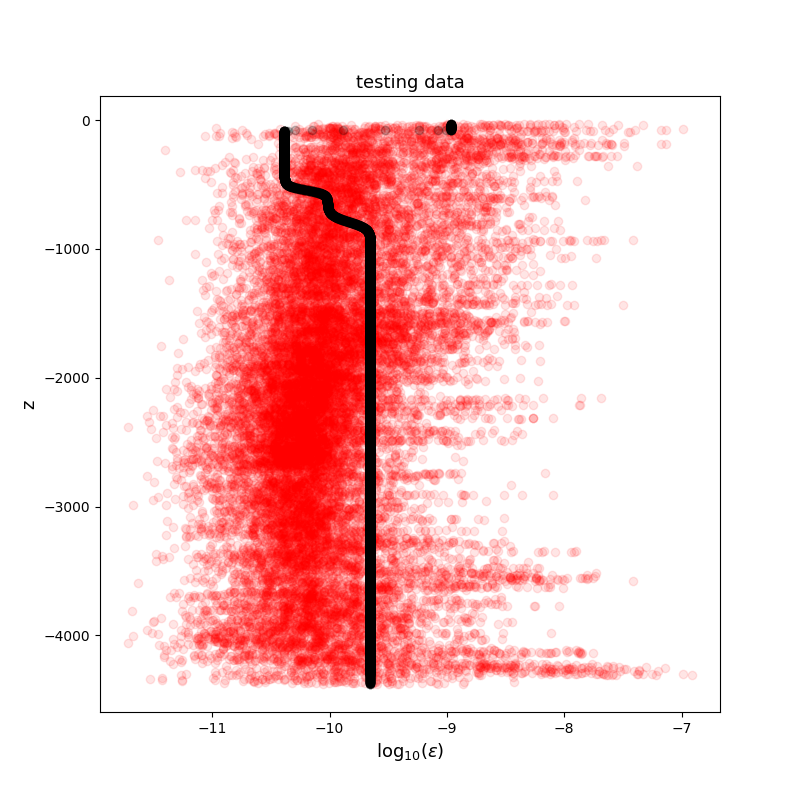
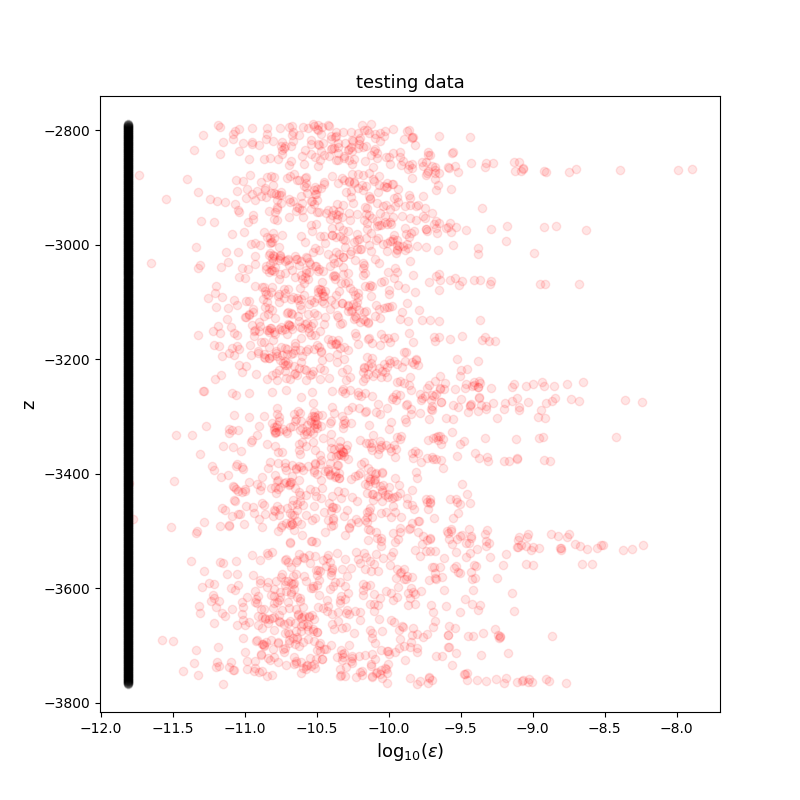
mdn working on training data

diff --git a/mdn_micro.py b/mdn_micro.py
@@ -34,23 +34,30 @@ Np = np.shape(eps)[0]
 #print(Np)
 
 # data needs to be shape (N,1):
-Nchunk = 20000
-Noffset = 200000
+Nchunk = 10000
+Noffset = 1000000
 x_data = np.zeros([Nchunk,1])
 x_data[:,0] = z[Noffset:Nchunk+Noffset]
 y_data = np.zeros([Nchunk,1])
 y_data[:,0] = np.log10(eps[Noffset:Nchunk+Noffset])
 
-Noffset = 1000000
+Nchunk = 2000
+Noffset = 1100000
 x_test = np.zeros([Nchunk,1])
 x_test[:,0] = z[int(2*Nchunk)+Noffset:int(3*Nchunk)+Noffset]
 y_test = np.zeros([Nchunk,1])
 y_test[:,0] = np.log10(eps[int(2*Nchunk)+Noffset:int(3*Nchunk)+Noffset])
 
+"""
+x_data2 = np.zeros([Nchunk,4])
+x_data2[:,0] = z[Noffset:Nchunk+Noffset]
+x_data2[:,1] = CT[Noffset:Nchunk+Noffset]
+x_data2[:,2] = SA[Noffset:Nchunk+Noffset]
+x_data2[:,4] = N2[Noffset:Nchunk+Noffset]
+"""
 
 #x_data = x_data/np.amin(x_data)-np.mean(x_data/np.amin(x_data))
 #y_data = y_data/np.amin(y_data)-np.mean(y_data/np.amin(y_data))
-
 #x_test = x_test/np.amin(x_test)-np.mean(x_test/np.amin(x_test))
 #y_test = y_test/np.amin(y_test)-np.mean(y_test/np.amin(y_test))
 
@@ -69,7 +76,7 @@ plt.title(r"training data",fontsize=13)
 plt.savefig(plotname,format="png"); plt.close(fig);
 plt.show()
 
-plotname = figure_path +'micro_testing_data.png' 
+plotname = figure_path +'micro_test_data.png' 
 fig = plt.figure(figsize=(8, 8))
 plt.plot(y_test,x_test,'ro',alpha=alpha_level)
 plt.ylabel(r"z",fontsize=13)
@@ -155,7 +162,7 @@ sess.close() # close the session afterwards to free resources
 
 
 # construct the MDN:
-NHIDDEN = 32
+NHIDDEN = 24
 STDEV = 0.5
 KMIX = 32 # number of mixtures
 NOUT = KMIX * 3 # pi, mu, stdev
@@ -181,33 +188,64 @@ train_op = tf.train.AdamOptimizer().minimize(lossfunc)
 sess = tf.InteractiveSession()
 sess.run(tf.global_variables_initializer())
 
-NEPOCH = 10000
+NEPOCH = 20000
 loss = np.zeros(NEPOCH) # store the training progress here.
 for i in range(NEPOCH):
   sess.run(train_op,feed_dict={x: x_data, y: y_data})
   loss[i] = sess.run(lossfunc, feed_dict={x: x_data, y: y_data})
 
-
 # testing:
-#x_test = np.float32(np.arange(-15,15,0.1))
-#NTEST = x_test.size
-#x_test = x_test.reshape(NTEST,1) # needs to be a matrix, not a vector
-
 out_pi_test, out_sigma_test, out_mu_test = sess.run(fn.get_mixture_coeff(output,KMIX), feed_dict={x: x_test})
-y_pred = fn.generate_ensemble( out_pi_test, out_mu_test, out_sigma_test, x_test )
+out_pi_train, out_sigma_train, out_mu_train = sess.run(fn.get_mixture_coeff(output,KMIX), feed_dict={x: x_data})
+# out_pi_test, out_sigma_test, out_mu_test = each are size (Nchunk,Kmix)
 
-sess.close()
+y_pred_test = fn.generate_ensemble( out_pi_test, out_mu_test, out_sigma_test, x_test )
+y_pred_train = fn.generate_ensemble( out_pi_train, out_mu_train, out_sigma_train, x_data )
+# y_pred = size(Nchunk,10?)
 
-plotname = figure_path +'micro_testing_prediction_mdn.png' 
+"""
+print(np.shape(y_test))
+print(np.shape(x_test))
+print(np.shape(y_pred))
+print(out_mu_test)
+print(out_pi_test)
+print(out_sigma_test)
+print(np.shape(out_mu_test))
+print(np.shape(out_pi_test))
+print(np.shape(out_sigma_test))
+"""
+
+plotname = figure_path +'micro_test_prediction_mdn.png' 
 fig = plt.figure(figsize=(8, 8))
 plt.plot(y_test,x_test,'ro',alpha=alpha_level,label=r"data")
-plt.plot(y_pred,x_test,'ko',alpha=alpha_level,label=r"MDN")
+plt.plot(y_pred_test[:,0],x_test,'ko',alpha=alpha_level,label=r"MDN")
+plt.plot(y_pred_test[:,1],x_test,'bo',alpha=alpha_level,label=r"MDN")
+plt.plot(y_pred_test[:,2],x_test,'co',alpha=alpha_level,label=r"MDN")
 plt.ylabel(r"z",fontsize=13)
 plt.xlabel(r"log$_{10}(\varepsilon)$",fontsize=13)
-plt.title(r"training data",fontsize=13)
+plt.title(r"testing data",fontsize=13)
+#plt.axis([-12.,-5.,-4500.,100.])
 plt.savefig(plotname,format="png"); plt.close(fig);
 
 
+plotname = figure_path +'micro_training_prediction_mdn.png' 
+fig = plt.figure(figsize=(8, 8))
+plt.plot(y_data,x_data,'bo',alpha=alpha_level,label=r"data")
+plt.plot(y_pred_train[:,0],x_data,'ko',alpha=alpha_level,label=r"MDN")
+plt.plot(y_pred_train[:,1],x_data,'bo',alpha=alpha_level,label=r"MDN")
+plt.plot(y_pred_train[:,2],x_data,'co',alpha=alpha_level,label=r"MDN")
+plt.ylabel(r"z",fontsize=13)
+plt.xlabel(r"log$_{10}(\varepsilon)$",fontsize=13)
+plt.title(r"training data",fontsize=13)
+#plt.axis([-12.,-5.,-4500.,100.])
+plt.savefig(plotname,format="png"); plt.close(fig);
+
+
+
+
+
+
+sess.close()
 
 
 
